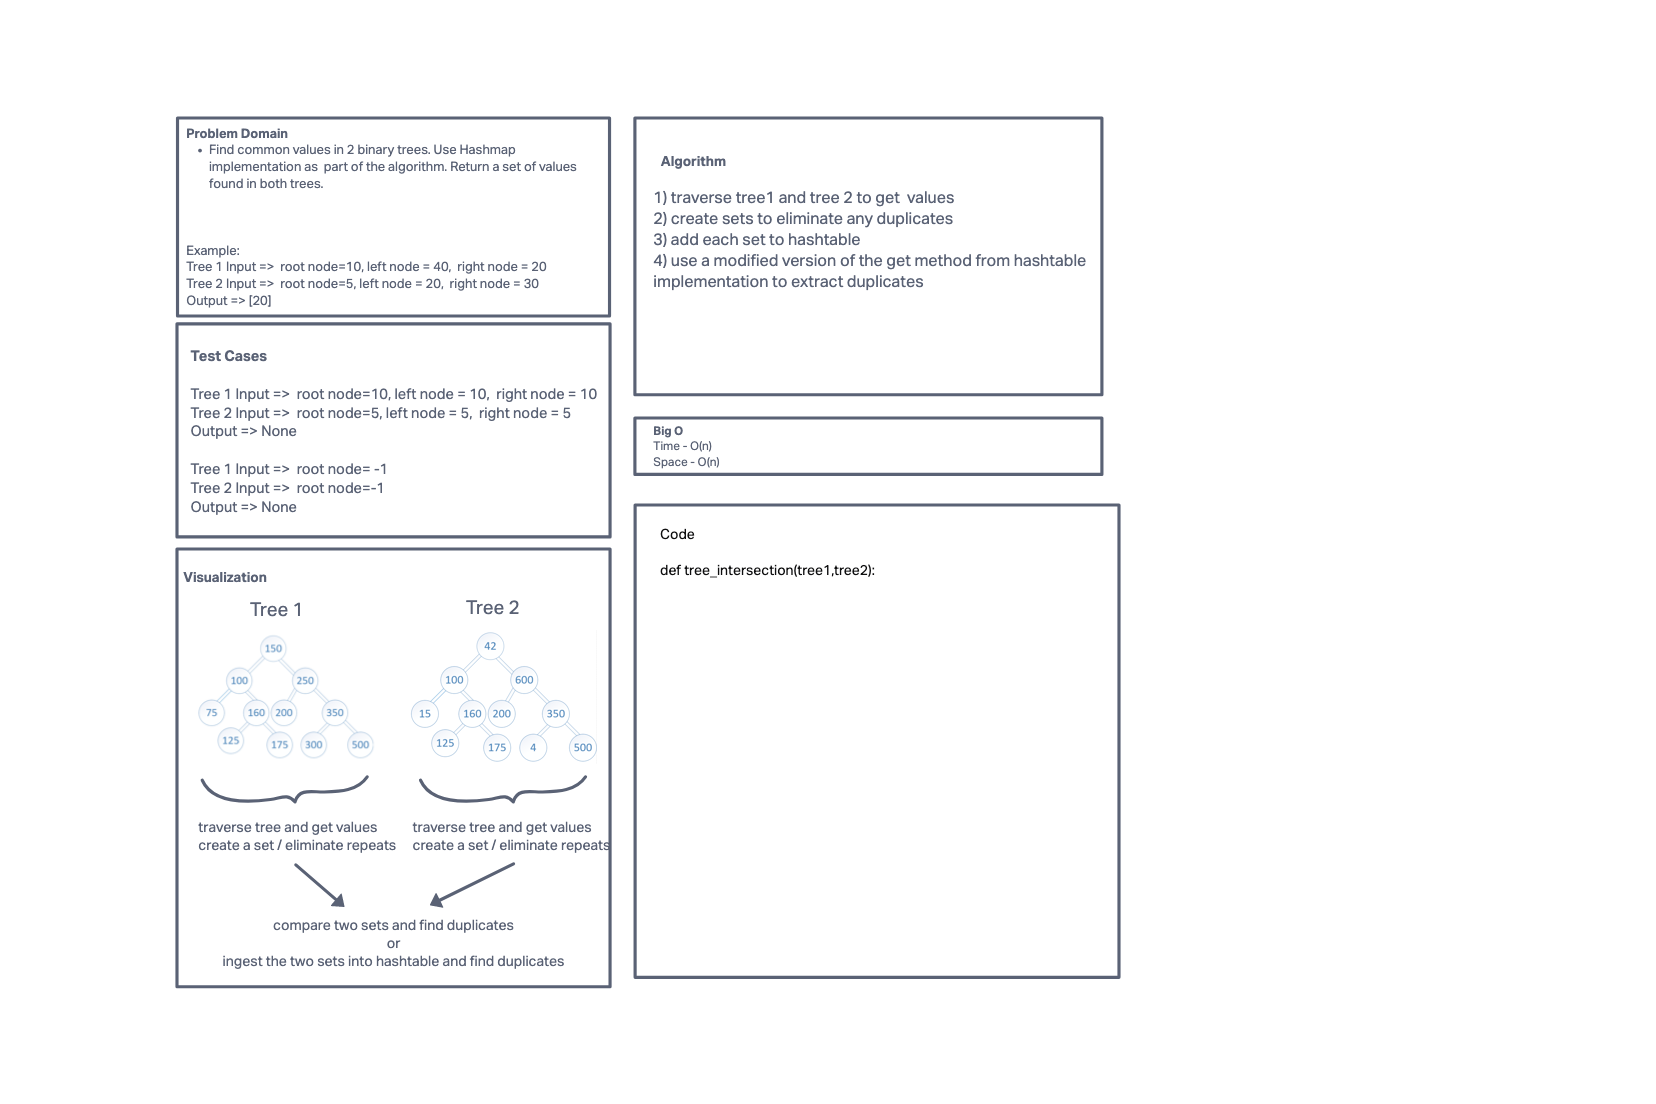
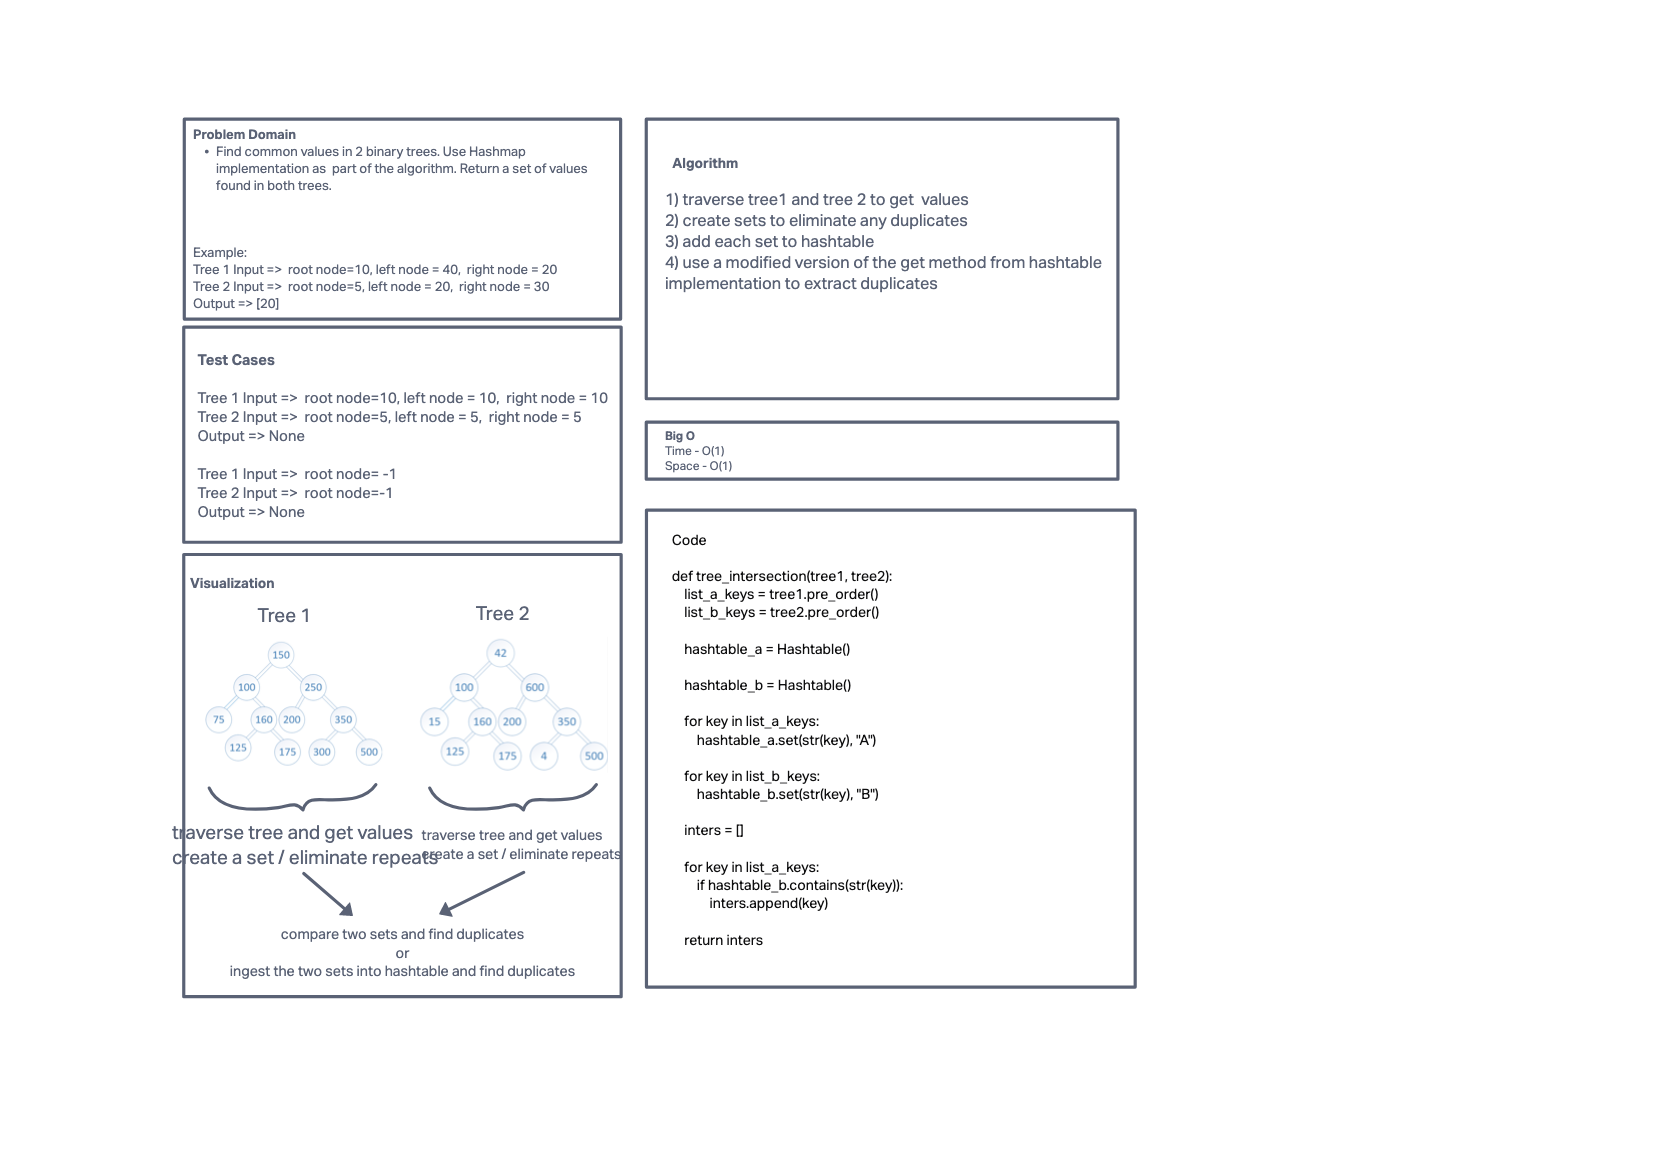
completed code

Changed region(s): [[0.0924, 0.0924, 0.6775, 0.8931]]

diff --git a/tree-intersection/tree_intersection/hash_table.py b/tree-intersection/tree_intersection/hash_table.py
@@ -1,0 +1,70 @@
+
+class Hashtable:
+
+    def __init__(self, size=1024):
+        self.size = size
+        self._buckets = size * [None]
+
+    def set(self, key, value):
+
+        index = self.hash(key)
+
+        if self._buckets[index] is not None:
+
+            for kvp in self._buckets[index]:
+
+                if kvp[0] == key:
+                    kvp[1] = value
+                    break
+            else:
+
+                self._buckets[index].append([key, value])
+        else:
+
+            self._buckets[index] = []
+            self._buckets[index].append([key, value])
+
+    def get(self, key):
+        index = self.hash(key)
+
+        if self._buckets[index] is None:
+            raise KeyError()
+        else:
+            for kvp in self._buckets[index]:
+                if kvp[0] == key:
+                    return kvp[1]
+
+            raise KeyError()
+
+    def contains(self, key):
+        index = self.hash(key)
+
+        if self._buckets[index] is None:
+            return False
+        else:
+            for kvp in self._buckets[index]:
+                if kvp[0] == key:
+                    return True
+
+            return False
+
+    def keys(self):
+        keys = []
+        indexes = len(self._buckets)
+        for n in range(indexes):
+            if self._buckets[n] != None:
+                keys.append(self._buckets[n][0][0])
+
+        return keys
+
+    def hash(self, key):
+
+        total = 0
+
+        for ch in key:
+            total += ord(ch)
+
+        primed = total * 19
+
+        index = primed % self.size
+        return index

diff --git a/tree-intersection/tree_intersection/queue.py b/tree-intersection/tree_intersection/queue.py
@@ -1,0 +1,59 @@
+class Node:
+
+    def __init__(self, value, next_node=None):
+        self.value = value
+        self.next_node = next_node
+
+
+class Queue:
+
+    def __init__(self, rear=None, front=None):
+        self.rear = rear
+        self.front = front
+
+    def enqueue(self, value):
+        # enqueue
+        # Arguments: value
+        # adds a new node with that value to the back of the queue with an O(1) Time performance.
+
+        node = Node(value)
+
+        front = self.front
+        rear = self.rear
+
+        if front is None:
+            self.front = node
+            self.rear = node
+            return
+
+        rear.next_node = node
+        self.rear = node
+
+    def dequeue(self):
+
+        if self.front is None:
+            return None
+
+        front = self.front
+
+        node_temp = self.front
+
+        self.front = self.front.next_node
+
+        node_temp.next_node = None
+
+        return node_temp.value
+
+    def peek(self):
+
+        if self.front is None:
+            return None
+
+        return self.front.value
+
+    def is_empty(self):
+
+        if not self.front:
+            return True
+
+        return False

diff --git a/tree-intersection/tests/test_tree_intersection.py b/tree-intersection/tests/test_tree_intersection.py
@@ -1,0 +1,42 @@
+import pytest
+from tree_intersection.tree_intersection import tree_intersection
+from tree_intersection.binary_tree import BinaryTree, Node
+from tree_intersection.queue import Queue
+
+
+def test_exists():
+    assert tree_intersection
+
+
+# @pytest.mark.skip("TODO")
+def test_tree_intersection():
+
+    tree_a = BinaryTree()
+    values = [150, 100, 250, 75, 160, 200, 350, 125, 175, 300, 500]
+    add_values_to_empty_tree(tree_a, values)
+
+    tree_b = BinaryTree()
+    values = [42, 100, 100, 15, 160, 200, 350, 125, 175, 4, 500]
+    add_values_to_empty_tree(tree_b, values)
+
+    actual = tree_intersection(tree_a, tree_b)
+    expected = [125, 175, 100, 160, 500, 200, 350]
+
+    assert sorted(actual) == sorted(expected)
+
+
+def add_values_to_empty_tree(tree, values):
+    """
+    Helper function to add given values to BinaryTree
+    """
+    tree.root = Node(values.pop())
+    q = Queue()
+
+    q.enqueue(tree.root)
+
+    while values:
+        node = q.dequeue()
+        node.left = Node(values.pop())
+        node.right = Node(values.pop()) if values else None
+        q.enqueue(node.left)
+        q.enqueue(node.right)

diff --git a/tree-intersection/tree_intersection/tree_intersection.py b/tree-intersection/tree_intersection/tree_intersection.py
@@ -1,0 +1,25 @@
+from tree_intersection.binary_tree import BinaryTree
+from tree_intersection.hash_table import Hashtable
+
+
+def tree_intersection(tree1, tree2):
+    list_a_keys = tree1.pre_order()
+    list_b_keys = tree2.pre_order()
+
+    hashtable_a = Hashtable()
+
+    hashtable_b = Hashtable()
+
+    for key in list_a_keys:
+        hashtable_a.set(str(key), "A")
+
+    for key in list_b_keys:
+        hashtable_b.set(str(key), "B")
+
+    inters = []
+
+    for key in list_a_keys:
+        if hashtable_b.contains(str(key)):
+            inters.append(key)
+
+    return inters
